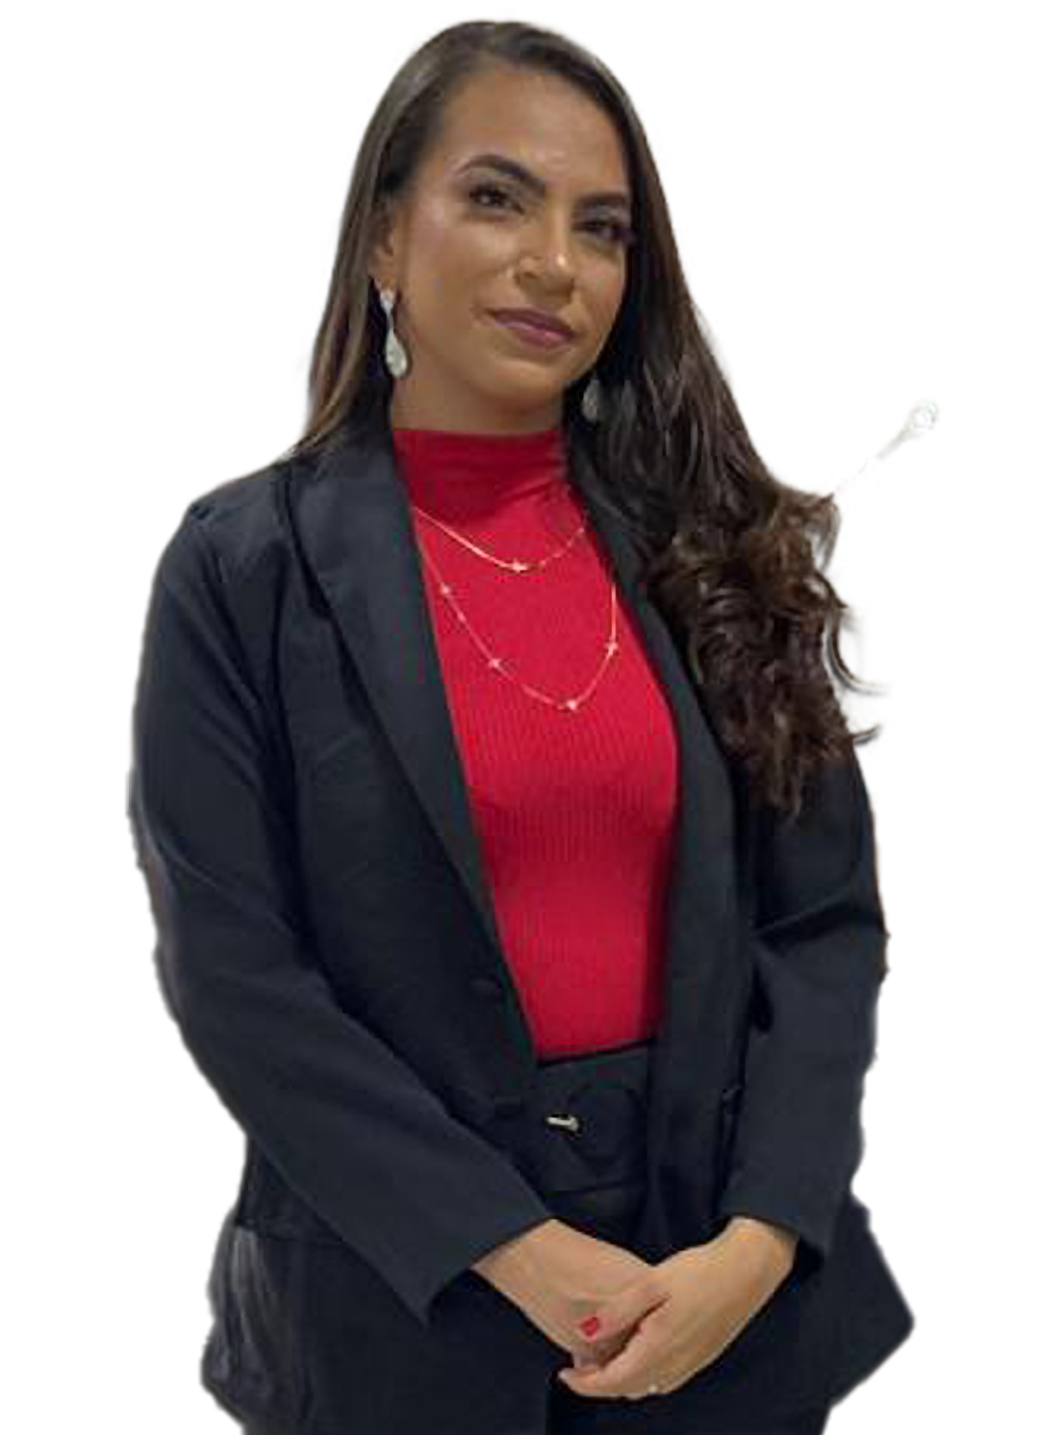
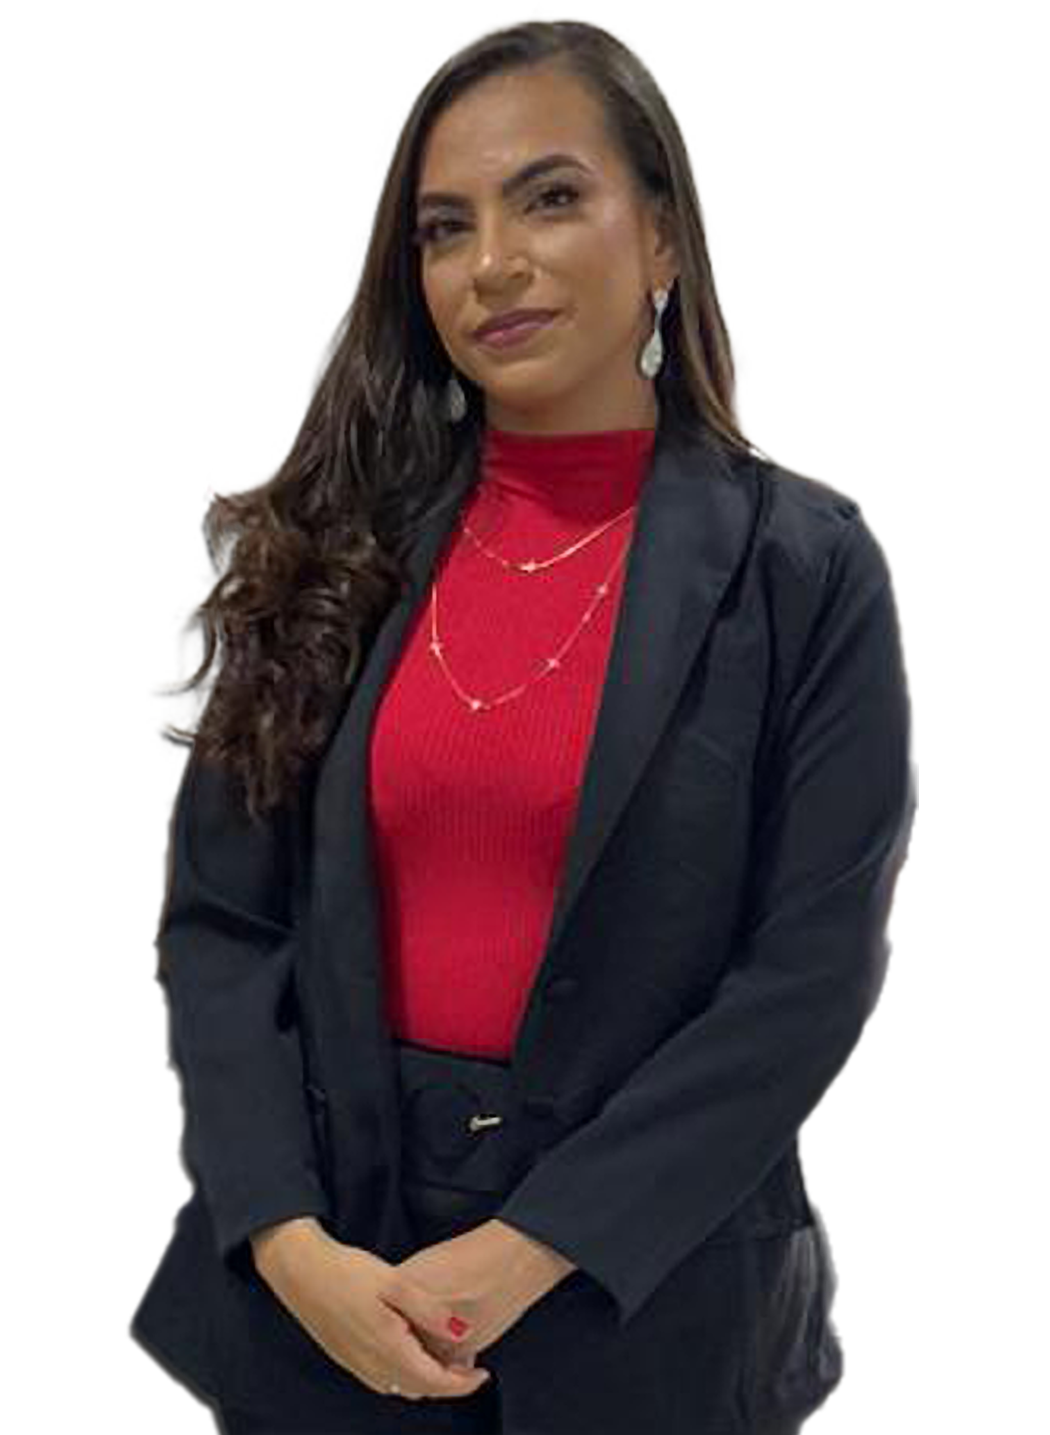
contact change, allign self call

diff --git a/client/src/components/ContactButton.jsx b/client/src/components/ContactButton.jsx
@@ -3,8 +3,9 @@ import { BsWhatsapp } from "react-icons/bs";
 const ContactButton = () => {
   return (
     <ContactButtonStyle>
-      <a href="https://api.whatsapp.com/send?558881703845&text=Ol%C3%A1.%20Seja%20bem%20vindo,%20digite%20o%20seu%20problema.">
-        <BsWhatsapp style={{marginRight:"15px",fontSize:"20px"}}/> FALE AGORA CONOSCO
+      <a href="https://wa.me/558881703845?text=Olá!+Estamos+a+disposição+para+ajudá-los.">
+        <BsWhatsapp style={{ marginRight: "15px", fontSize: "20px" }} /> FALE
+        AGORA CONOSCO
       </a>
     </ContactButtonStyle>
   );

diff --git a/client/src/components/Explain.jsx b/client/src/components/Explain.jsx
@@ -9,8 +9,9 @@ const Explain = () => {
         ASSISTÊNCIA SOCIAL E PREVIDÊNCIA SOCIAL.
       </h2>
       <p>
-        Eu, Suziele Paulino, Advogada situado em Independência/CE estou pronta
-        para ouvi-lo(a) e lhe ajudar na busca dos direitos que lhe são devidos
+        Eu, Suziele Paulino, Advogada, com atuação em todo o estado do Ceará
+        estou pronta para ouvi-lo(a) e lhe ajudar na busca dos direitos que lhe
+        são devidos
       </p>
       <ContactButton />
     </ExplainW>

diff --git a/client/src/wrappers/CallW.js b/client/src/wrappers/CallW.js
@@ -21,11 +21,17 @@ export const CallW = styled.section`
     display: flex;
     flex-direction: column;
     align-items: center;
+    padding-bottom: 50px;
   }
 
   /* div de imagem */
   .image-container {
     order: 2;
+    align-self: flex-end;
+    display: flex;
+
+
+    
   }
 
   /* texts */
@@ -68,6 +74,7 @@ export const CallW = styled.section`
     }
     .align {
       margin: 20px 0;
+      padding-bottom:0;
     }
     /* desktop */
   }

diff --git a/client/src/wrappers/ExplainW.js b/client/src/wrappers/ExplainW.js
@@ -11,6 +11,17 @@ export const ExplainW = styled.section`
   margin: auto;
   width: 70vw;
   
+  /* texts */
+
+  h2{
+    margin-bottom: 15px;
+    font-size: 1.7rem;;
+  }
+  p{
+    margin-bottom: 25px;
+    font-size: 1.1rem;
+  }
+  
 
   @media screen and (max-width:600px) {
     button{
@@ -18,6 +29,9 @@ export const ExplainW = styled.section`
     }
     p{
       margin-top: 10px;
+    }
+    h2{
+      font-size: 1.5rem;
     }
   }
 `;
